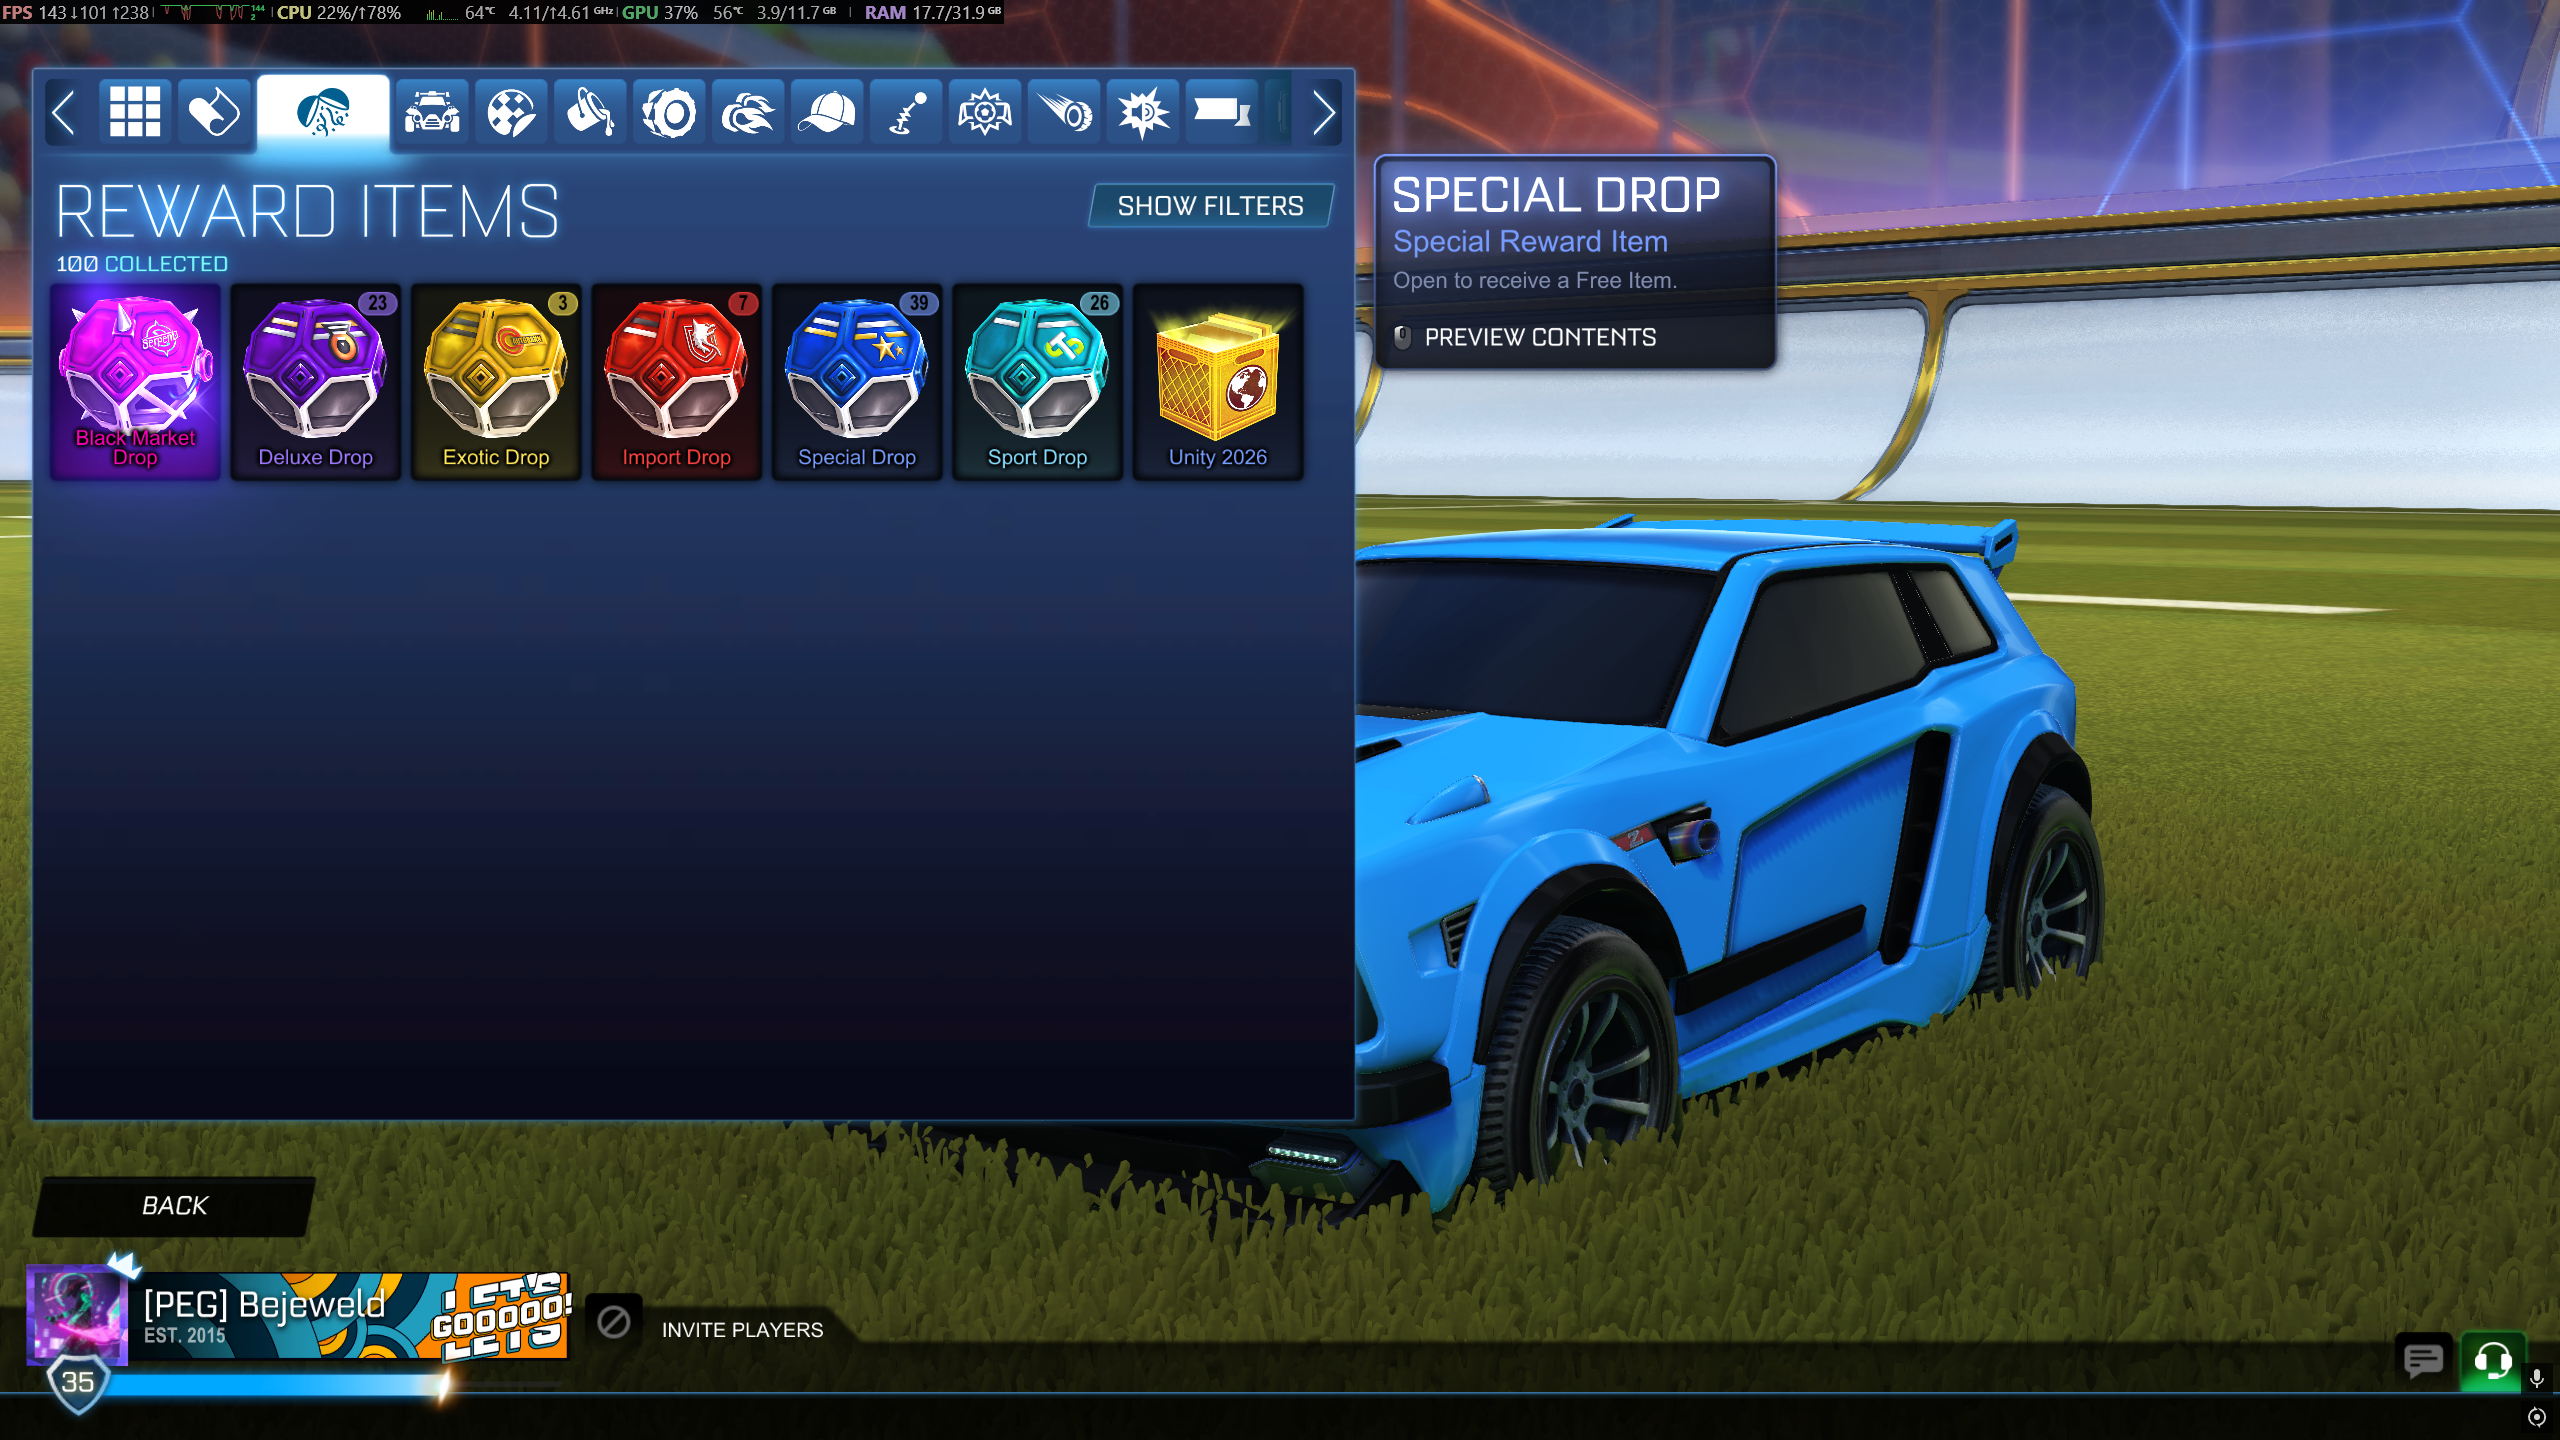
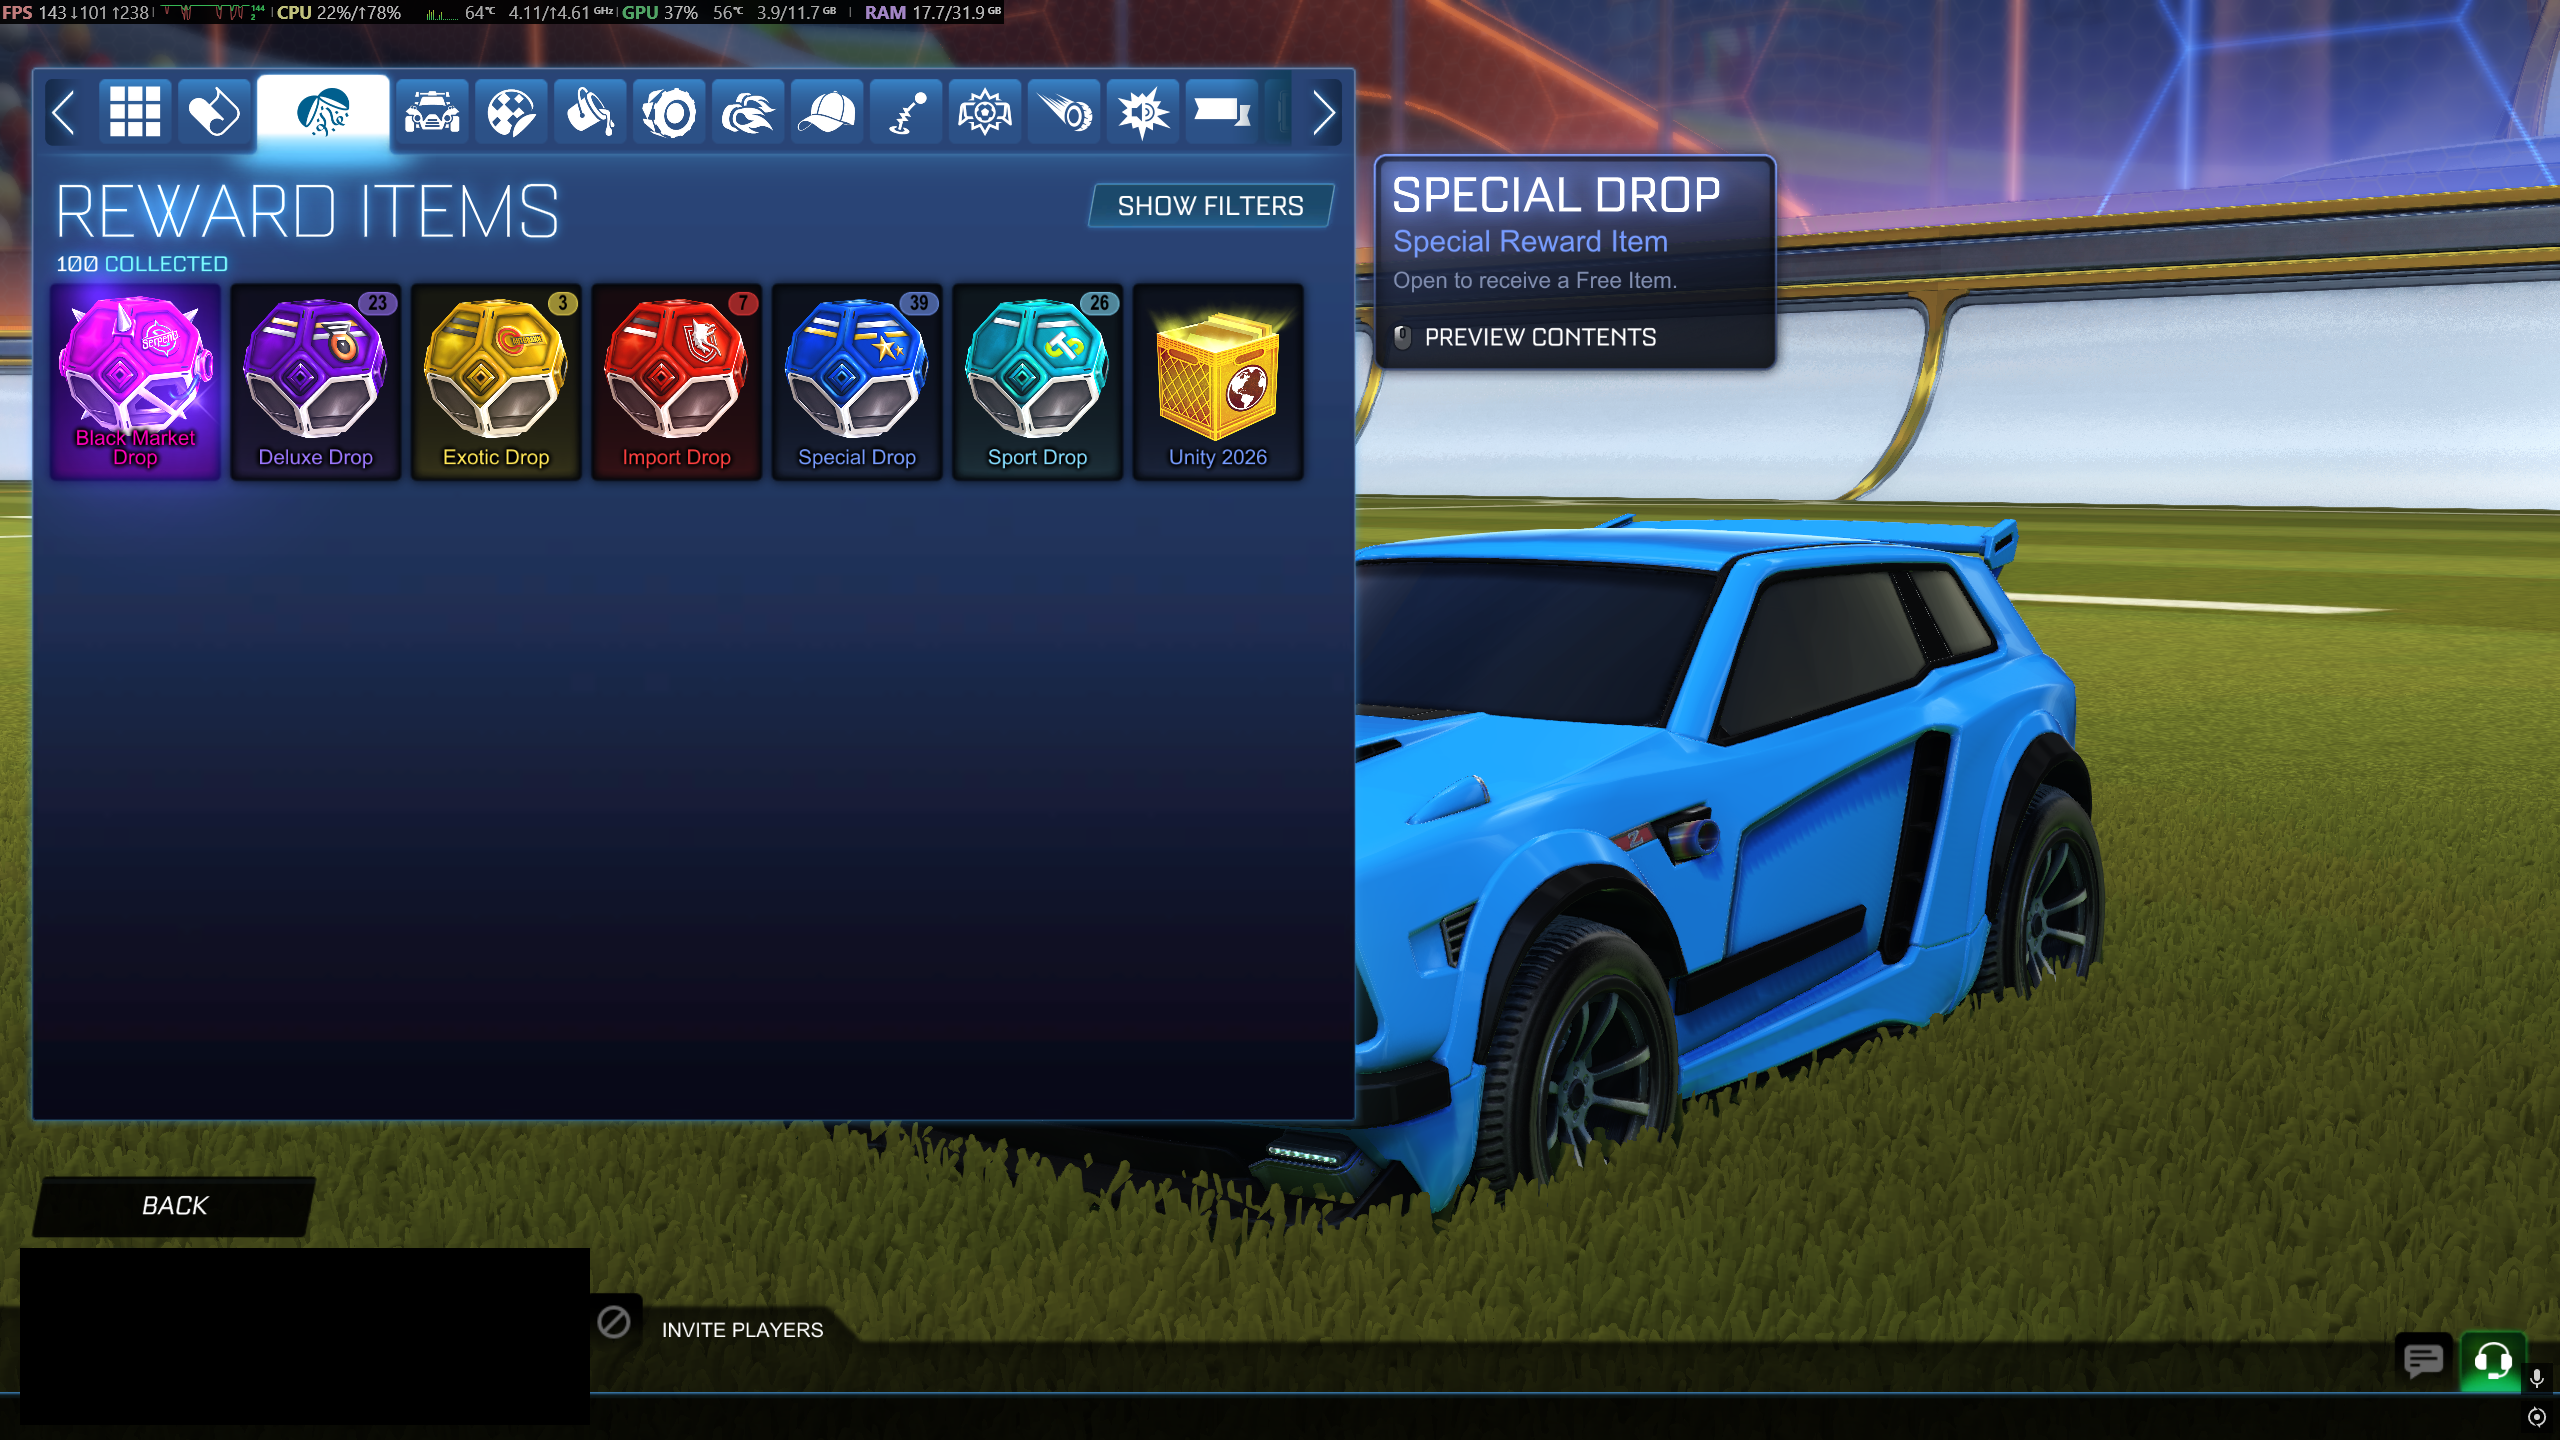
chore: mask personal details in reference screenshots
The repo is public and four screenshots showed the player banner
(avatar, name, club tag). It is blacked out now; the canvas keeps its
size because every tool works in absolute screen coordinates.

README gains a "Screenshots in the repo" section that makes this a
requirement for every image committed from here on.

Changed region(s): [[0.0, 0.8438, 0.25, 1.0]]

diff --git a/README.md b/README.md
@@ -145,16 +145,36 @@ python trade_in_bot.py --discover-open    # also click OPEN DROP and record the 
 
 Frames land in `debug/drop_flow/`. Crop the new button into `templates/`, add its
 search box to `TEMPLATE_REGIONS`, add a reference screenshot to
-`validate_regions.py`, and re-run the validator.
+`validate_regions.py`, and re-run the validator. Mask anything personal in that
+screenshot first, see [Screenshots in the repo](#screenshots-in-the-repo).
 
 ## Recalibration
 
 If you switch resolution:
 
-1. Take new screenshots of each UI state into `ui-images/`
+1. Take new screenshots of each UI state into `ui-images/` and mask anything
+   personal in them, see [Screenshots in the repo](#screenshots-in-the-repo)
 2. `python crop_templates_interactive.py` to re-select template regions
 3. `python validate_grid.py` to adjust the item grid positions
 4. `python validate_regions.py` to re-check the search boxes
+
+## Screenshots in the repo
+
+This repository is public, so an image may only be committed once nothing
+personal is visible in it. That rules out:
+
+- real names, profile pictures, player or account names, club tags, friends
+  and party members
+- chat, notifications and overlays from other apps (Discord, Steam, ...)
+- other windows, the taskbar, IP or e-mail addresses, keys and tokens
+
+Black the area out before committing, then run `python validate_regions.py`.
+Mask rather than crop: every tool here works in absolute 2560x1440 screen
+coordinates, so the canvas has to keep its size.
+
+`debug/` is git-ignored for this reason: its captures show whatever was on
+screen. Never force-add from it. Copy the frame to `ui-images/` and mask it
+first.
 
 ## Safety
 
